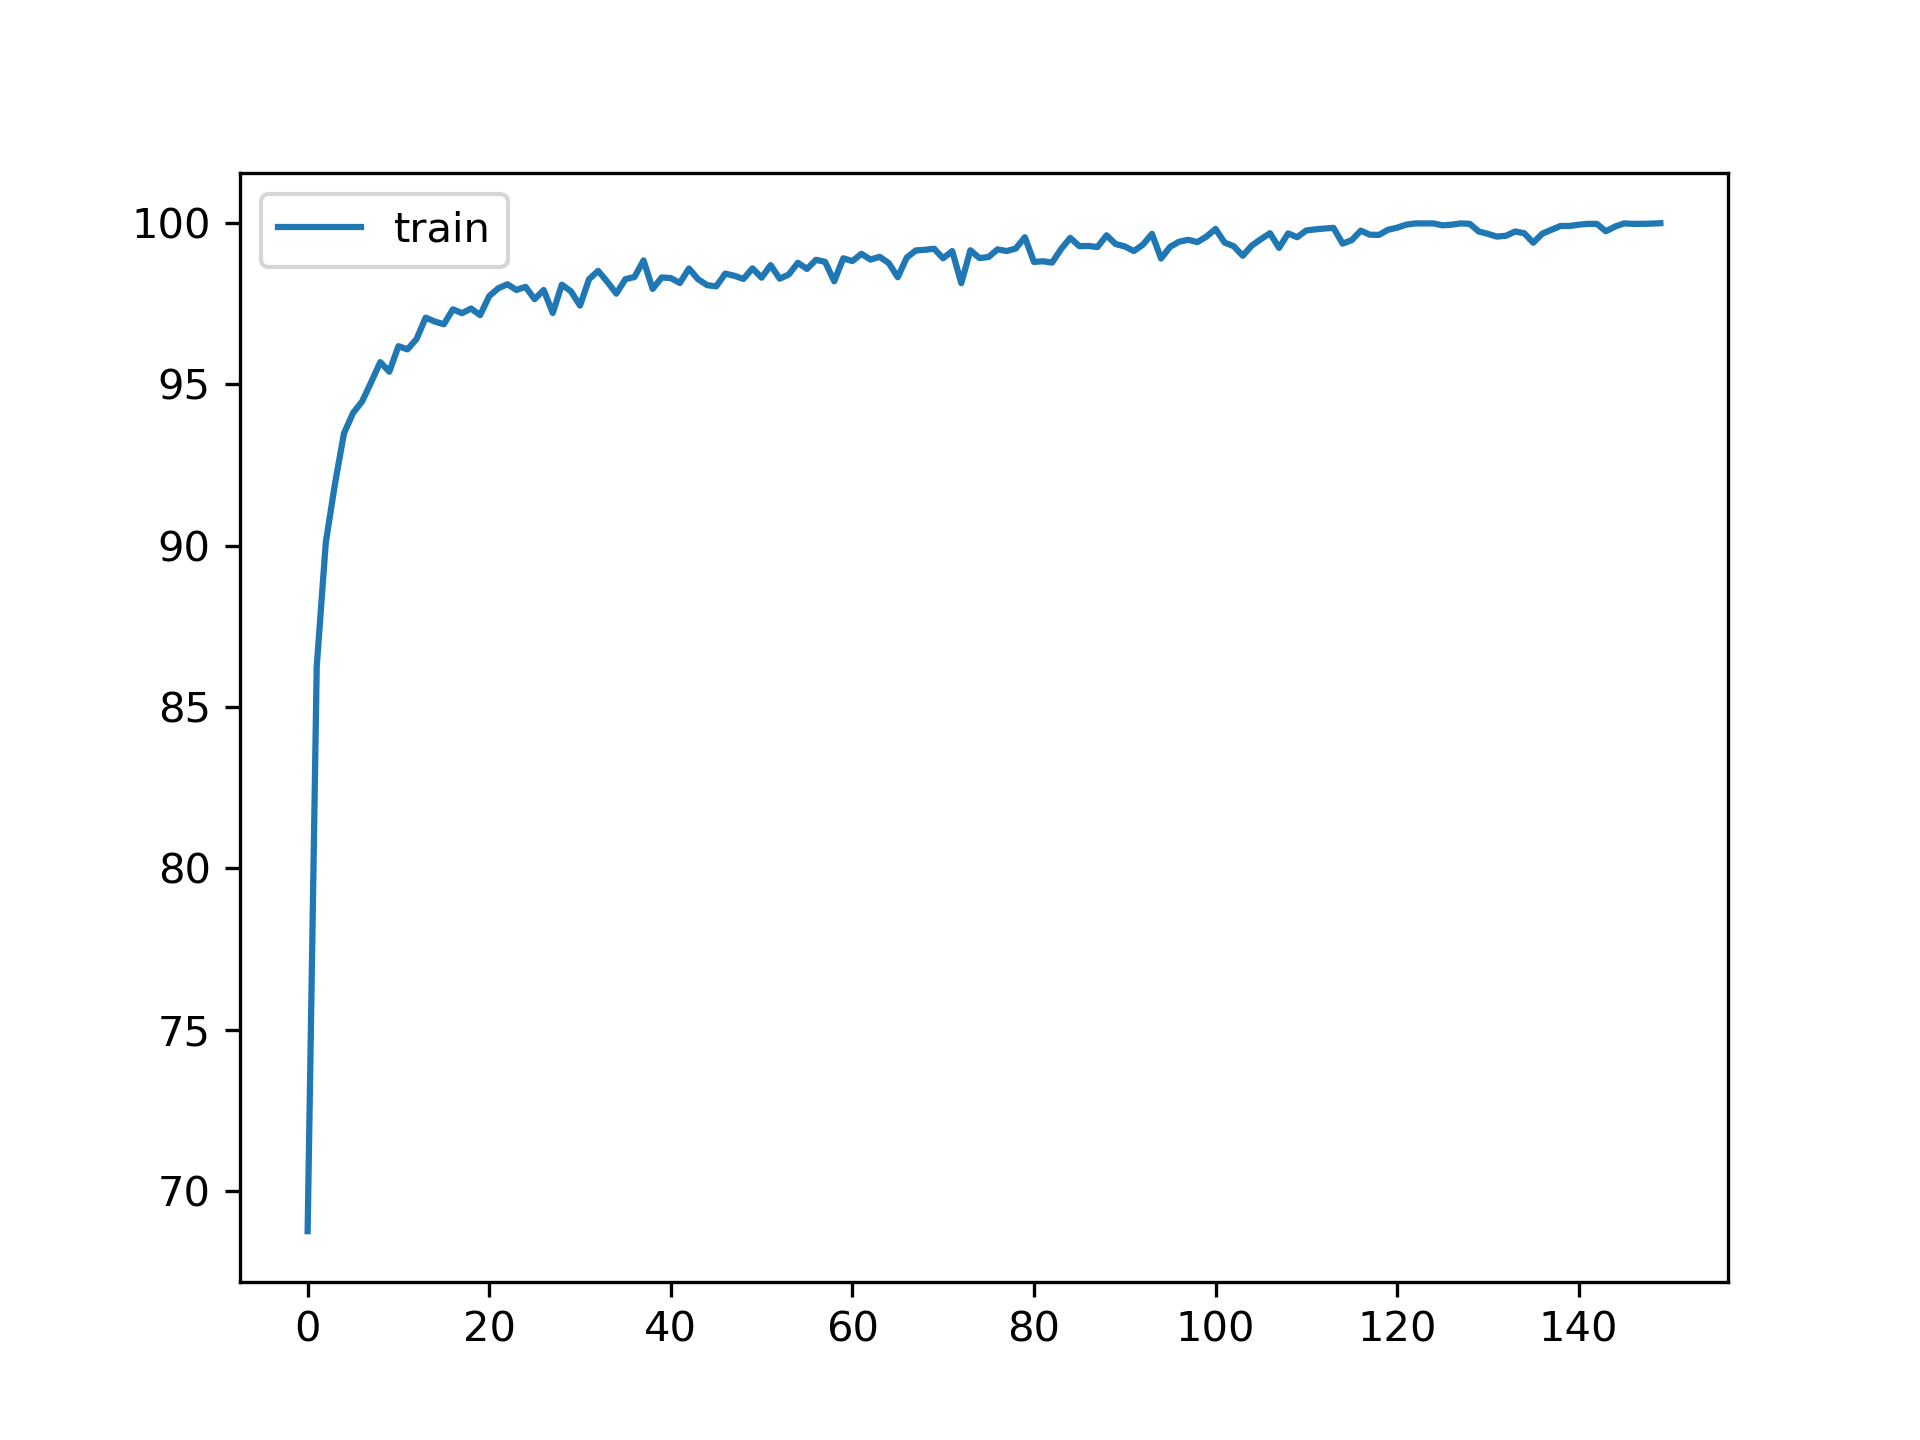
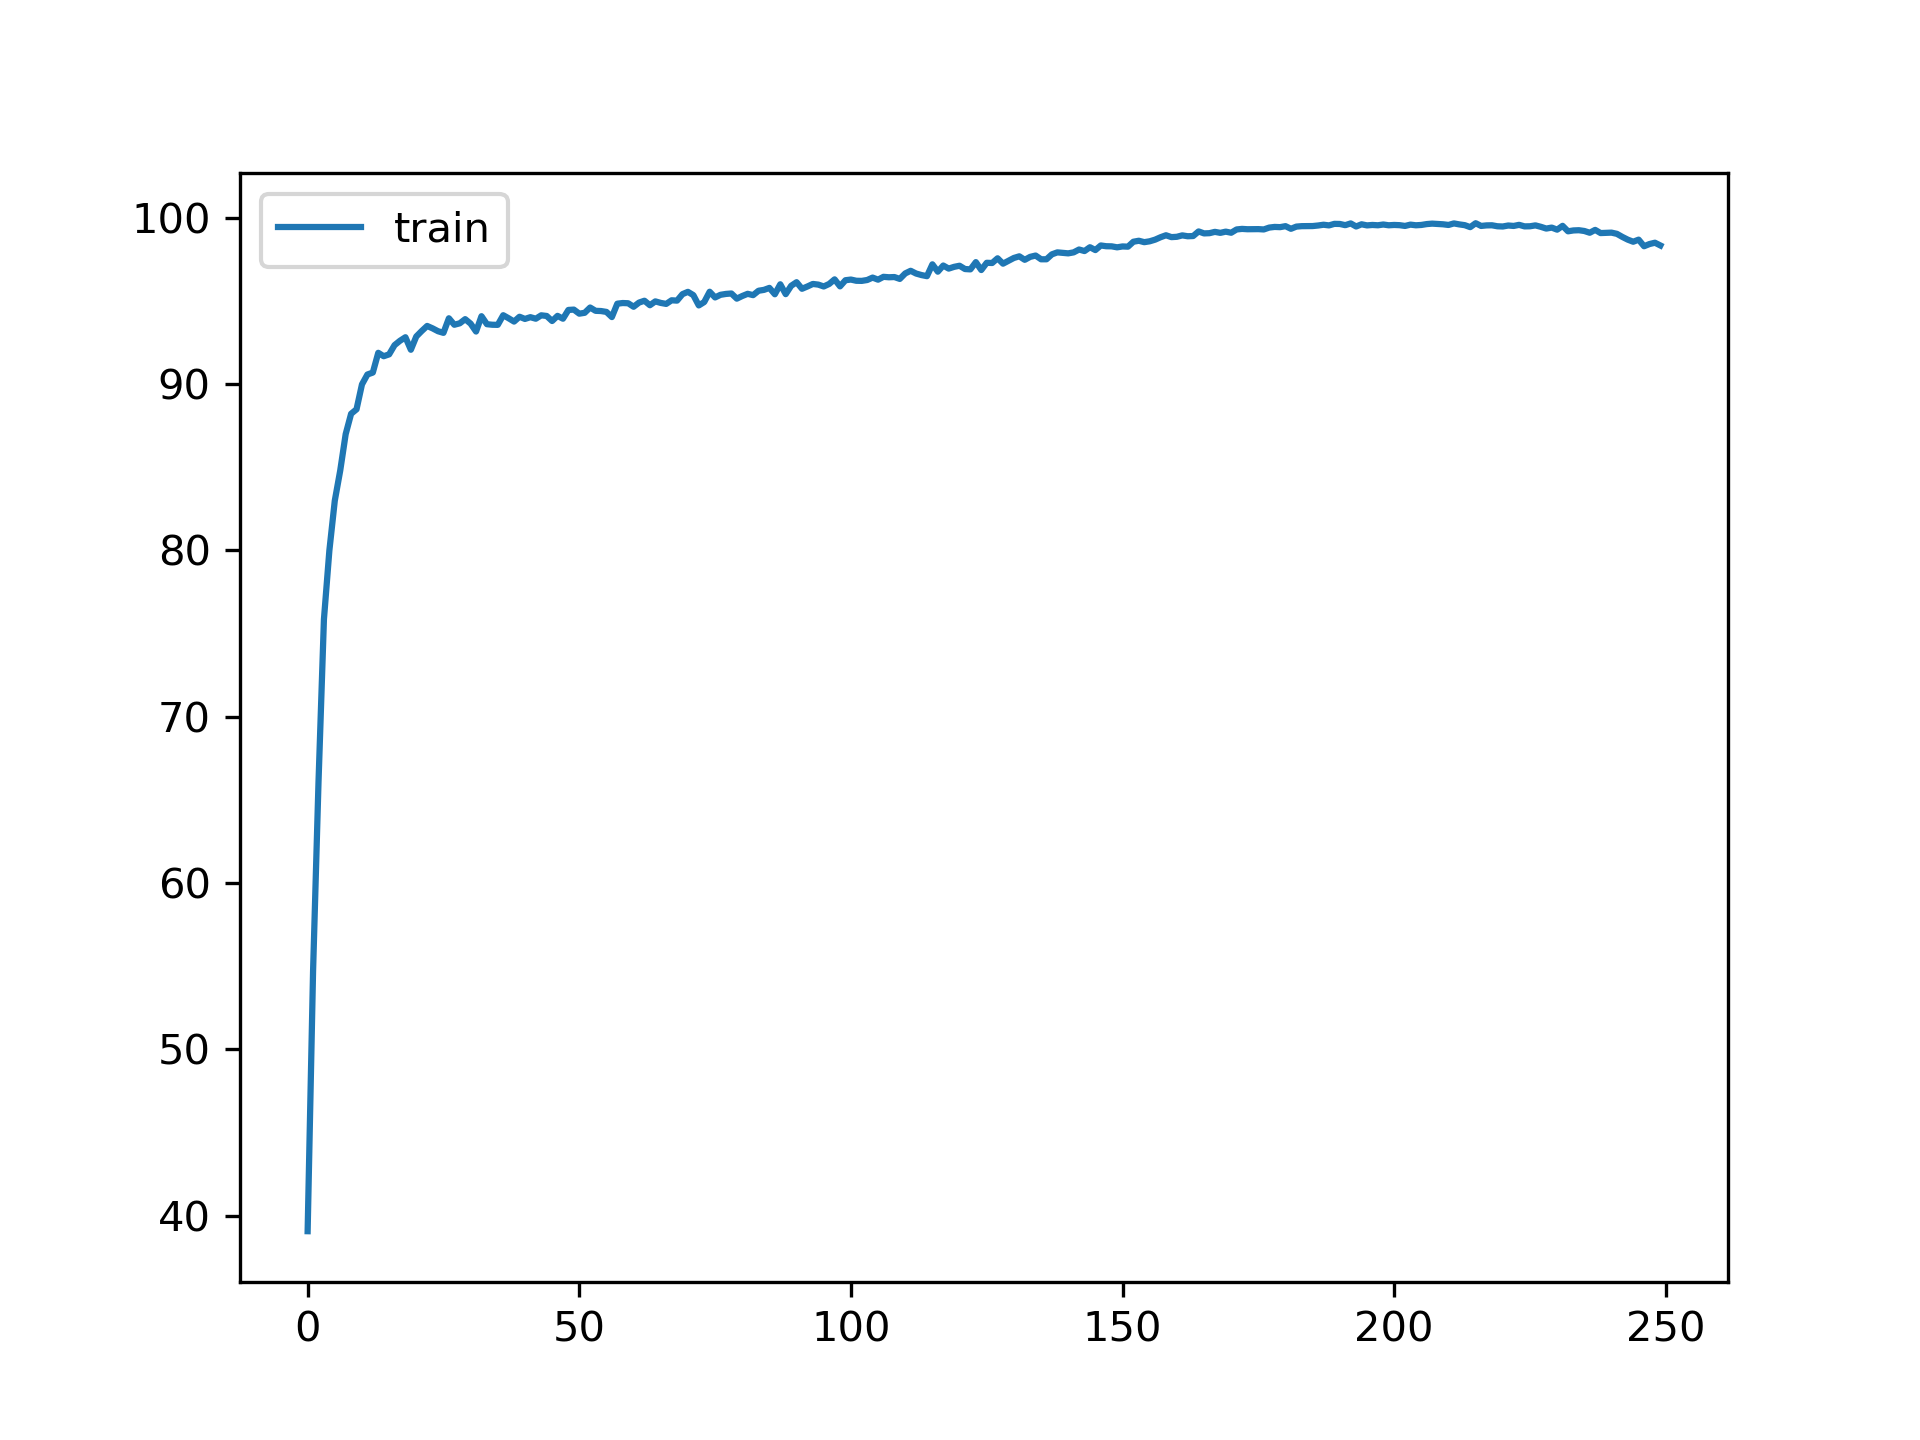
Midterm_version5

diff --git a/Midterm/code/models.py b/Midterm/code/models.py
@@ -22,12 +22,17 @@ class BasicBlock(nn.Module):
                           kernel_size=1, stride=stride, bias=False),
                 nn.BatchNorm2d(self.expansion*planes)
             )
+        
+        self.dropout1 = nn.Dropout(0.5)
+        self.dropout2 = nn.Dropout(0.5)
 
     def forward(self, x):
         out = F.relu(self.bn1(self.conv1(x)))
+        out = self.dropout1(out)
         out = self.bn2(self.conv2(out))
         out += self.shortcut(x)
         out = F.relu(out)
+        out = self.dropout2(out)
         return out
 
 
@@ -38,10 +43,12 @@ class Root(nn.Module):
             in_channels, out_channels, kernel_size,
             stride=1, padding=(kernel_size - 1) // 2, bias=False)
         self.bn = nn.BatchNorm2d(out_channels)
+        self.dropout = nn.Dropout(0.5)
 
     def forward(self, xs):
         x = torch.cat(xs, 1)
         out = F.relu(self.bn(self.conv(x)))
+        out = self.dropout(out)
         return out
 
 
@@ -71,19 +78,22 @@ class SimpleDLA(nn.Module):
         self.base = nn.Sequential(
             nn.Conv2d(3, 16, kernel_size=3, stride=1, padding=1, bias=False),
             nn.BatchNorm2d(16),
-            nn.ReLU(True)
+            nn.ReLU(True),
+            nn.Dropout(0.5)
         )
 
         self.layer1 = nn.Sequential(
             nn.Conv2d(16, 16, kernel_size=3, stride=1, padding=1, bias=False),
             nn.BatchNorm2d(16),
-            nn.ReLU(True)
+            nn.ReLU(True),
+            nn.Dropout(0.5)
         )
 
         self.layer2 = nn.Sequential(
             nn.Conv2d(16, 32, kernel_size=3, stride=1, padding=1, bias=False),
             nn.BatchNorm2d(32),
-            nn.ReLU(True)
+            nn.ReLU(True),
+            nn.Dropout(0.5)
         )
 
         self.layer3 = Tree(block,  32,  64, level=1, stride=1)
@@ -104,6 +114,7 @@ class SimpleDLA(nn.Module):
         out = out.view(out.size(0), -1)
         out = self.linear(out)
         return out
+
 
 class Simple(nn.Module):
     def __init__(self, num_classes=10):

diff --git a/Midterm/code/main.py b/Midterm/code/main.py
@@ -38,7 +38,7 @@ else:
 best_acc = 0  
 start_epoch = 0  # start from epoch 0 or last checkpoint epoch
 batch_size = 128
-epochs = 150
+epochs = 250
 
 # %%
 # Data Loader
